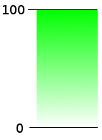
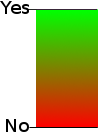
Remove current_allocation attribute from uses. Rule.get_object needs cookie. Fix bug in Rule.HTML_div. New mask tiff. rule API needed for rule modify. experimental background map. Fix bugs in msp.js: plan menu needs to initialize, rule is checked in widget when active

diff --git a/website/msp.js b/website/msp.js
@@ -103,6 +103,7 @@ function MSPView(model, elements, id) {
         self.buildPlans();
     });
     self.model.planChanged.attach(function(sender, args) {
+        self.elements.plans.val(args.plan.id);
         self.buildPlan(args.plan);
     });
     self.model.newLayerList.attach(function(sender, args) {
@@ -256,18 +257,20 @@ MSPView.prototype = {
             var item;
             if (layer.title == 'Value')
                 item = rule.title;
-            else
+            else {
+                var attr = {
+                    type:"checkbox",
+                    use: layer.use,
+                    layer: layer.id,
+                    rule:rule.id
+                };
+                if (rule.active) attr.checked = "checked";
                 item = element(
                     'input', 
-                    {
-                        type:"checkbox",
-                        use: layer.use,
-                        layer: layer.id,
-                        rule:rule.id,
-                        checked:"checked"
-                    }, 
+                    attr, 
                     element('a', {id:"rule", rule:rule.id}, rule.title+' '+rule.value)
                 );
+            }
             self.elements.rules.append(item);
             rule.active = true;
             self.elements.rules.append(element('br'));

diff --git a/website/layers.js b/website/layers.js
@@ -58,6 +58,25 @@ function createLayer(template, projection) {
             })
         })];
     }
+    if (template.bg && template.bg == 'test') {
+        return [new ol.layer.Tile({
+            opacity: 1,
+            extent: projection.extent,
+            source: new ol.source.WMTS({
+                url: 'http://' + server + '/WMTS',
+                layer: 'suomi',
+                matrixSet: 'ETRS-TM35FIN',
+                format: 'image/png',
+                projection: projection.projection,
+                tileGrid: new ol.tilegrid.WMTS({
+                    origin: ol.extent.getTopLeft(projection.extent),
+                    resolutions: projection.resolutions,
+                    matrixIds: projection.matrixIds
+                }),
+                style: 'default'
+            })
+        })];
+    }
     if (template.wmts) {
         return new ol.layer.Tile({
             opacity: 0.6,

diff --git a/website/index.html b/website/index.html
@@ -49,20 +49,9 @@
 
             <div>
               <br/>
-              <b>Value</b><br />
               <img src="ValueScale.png" />
             </div>
             
-            <div>
-              <br />
-              <b>Allocation</b>
-              <table border=0>
-                <tr><td bgcolor="#FF423D">New allocation</td></tr>
-                <tr><td bgcolor="#55FFFF">Current use</td></tr>
-              </table>
-
-            </div>
-
             <!--
             <br/>
             <label><b>Impacts</b></label><br/>

diff --git a/website/config.js b/website/config.js
@@ -1,5 +1,7 @@
 //var server = '193.166.24.31/Starman';
 var server = 'localhost:5000';
 
-//var config = {bg: 'mml', epsg: 3067, center: [346735, 6943420], zoom: 3};
-var config = {bg: 'osm', epsg: 3857, center: [2671763, 8960514], zoom: 6};
+var config = {bg: 'mml', epsg: 3067, center: [346735, 6943420], zoom: 3};
+//var config = {bg: 'osm', epsg: 3857, center: [2671763, 8960514], zoom: 6};
+
+config = {bg: 'test', epsg: 3067, center: [346735, 6943420], zoom: 3};
